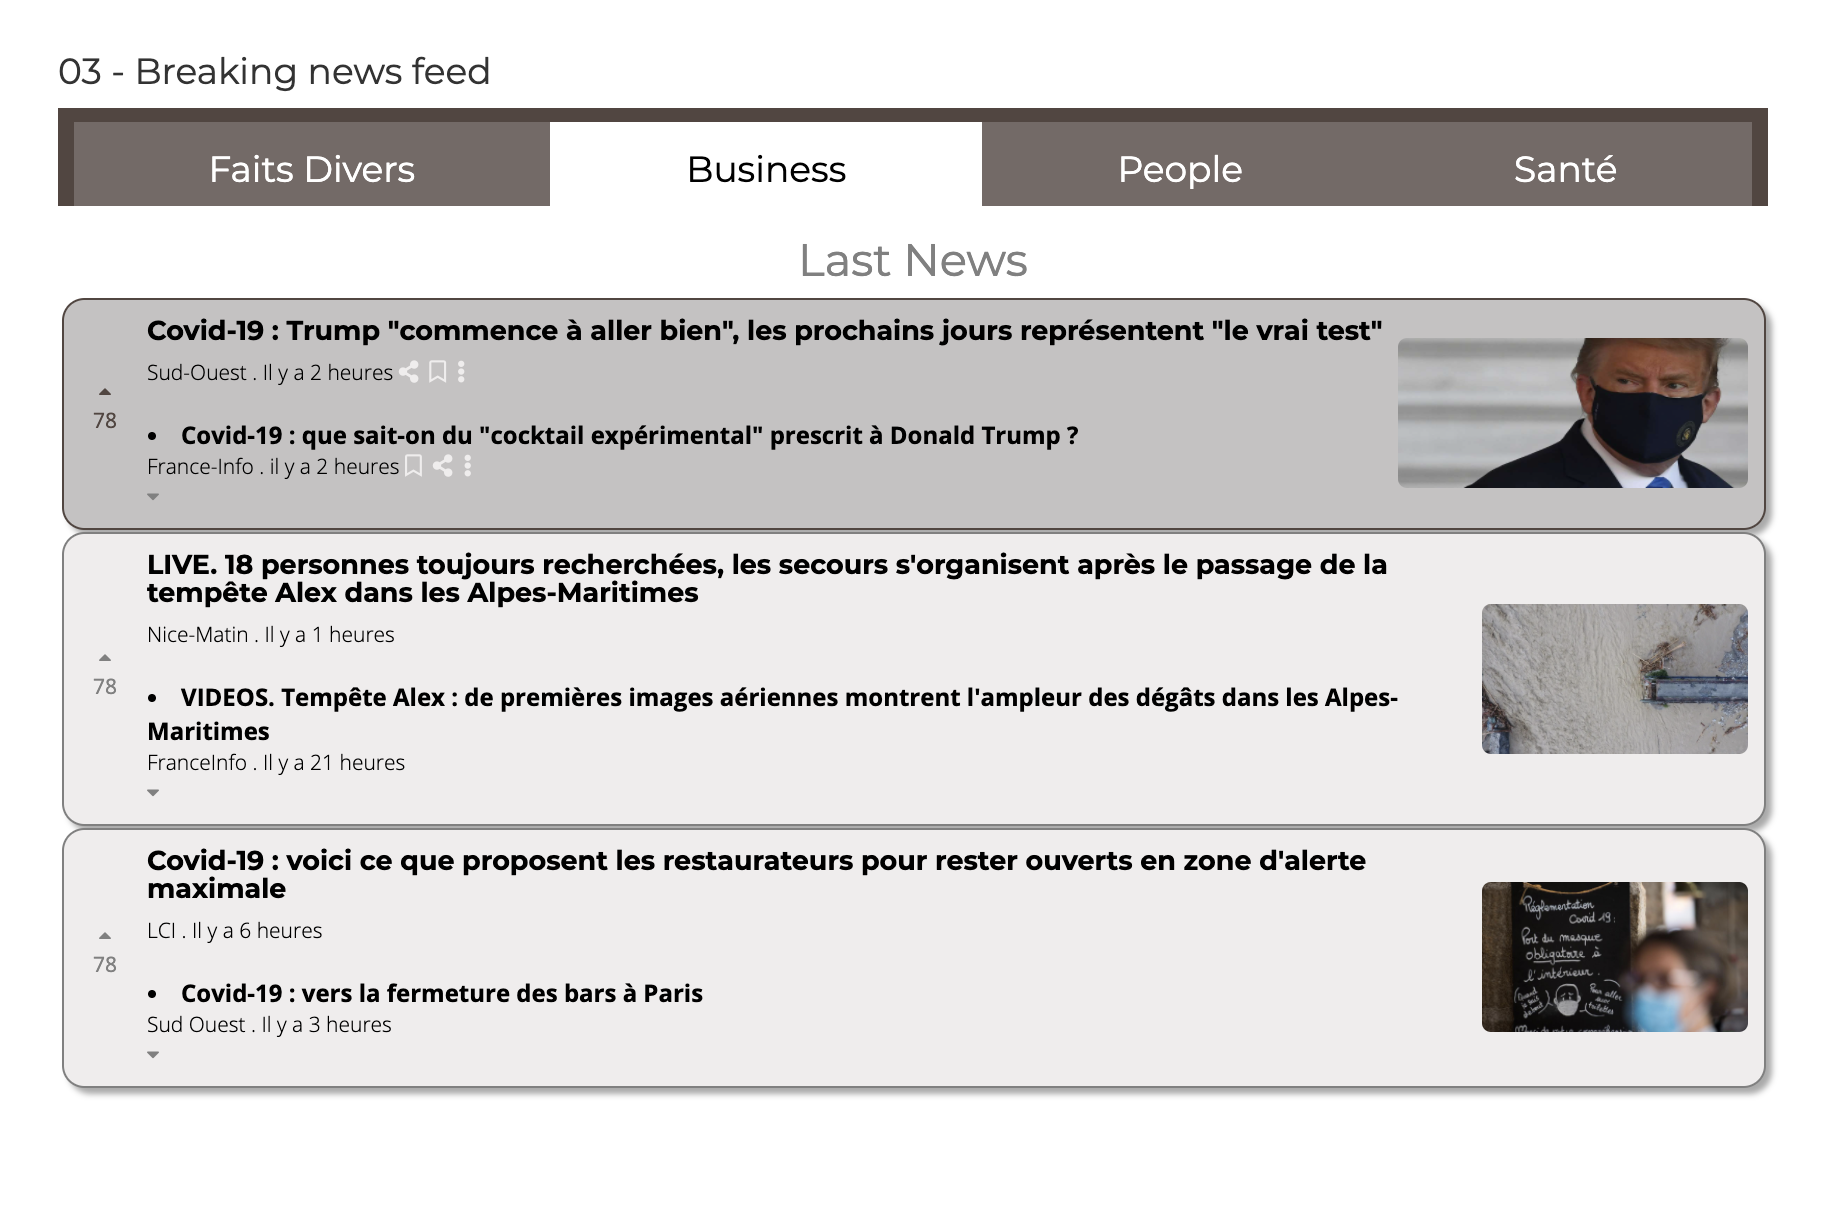
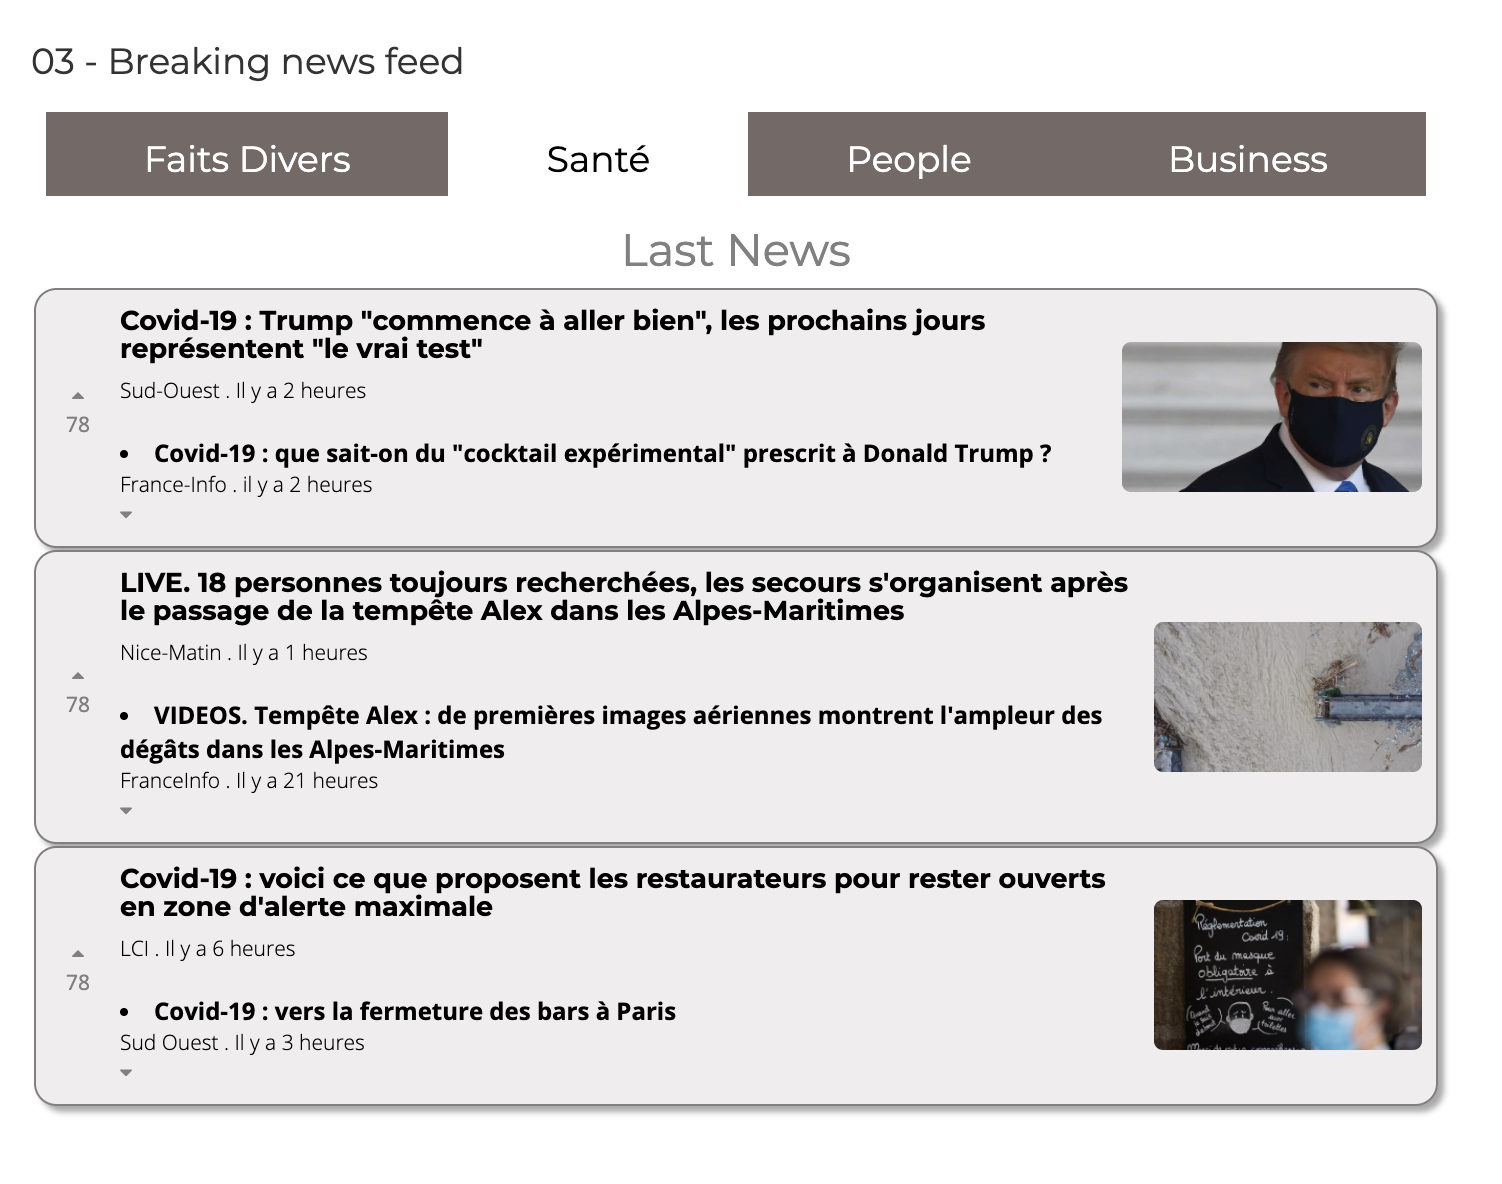
Result Pictures

diff --git a/index.html b/index.html
@@ -182,13 +182,13 @@
           <h3>Faits Divers</h3>
         </div>
         <div class="tabs-news-item active">
-          <h3>Business</h3>
+          <h3>Santé</h3>
         </div>
         <div class="tabs-news-item">
           <h3>People</h3>
         </div>
         <div class="tabs-news-item">
-          <h3>Santé</h3>
+          <h3>Business</h3>
         </div>
       </div>
 

diff --git a/css/components/news.css b/css/components/news.css
@@ -9,7 +9,7 @@
 
 
 .tabs-news {
-    background: #534540;
+    background: white;
     display: flex;
     color: white;
     padding: 10px 10px 0 10px;
